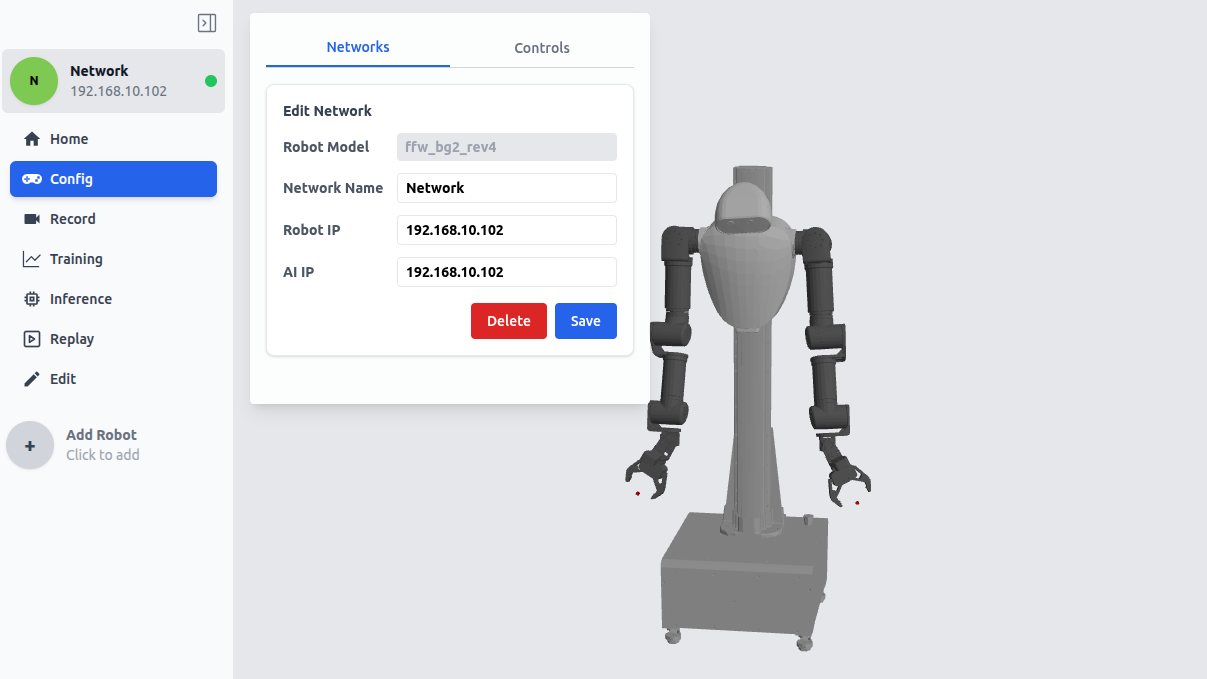
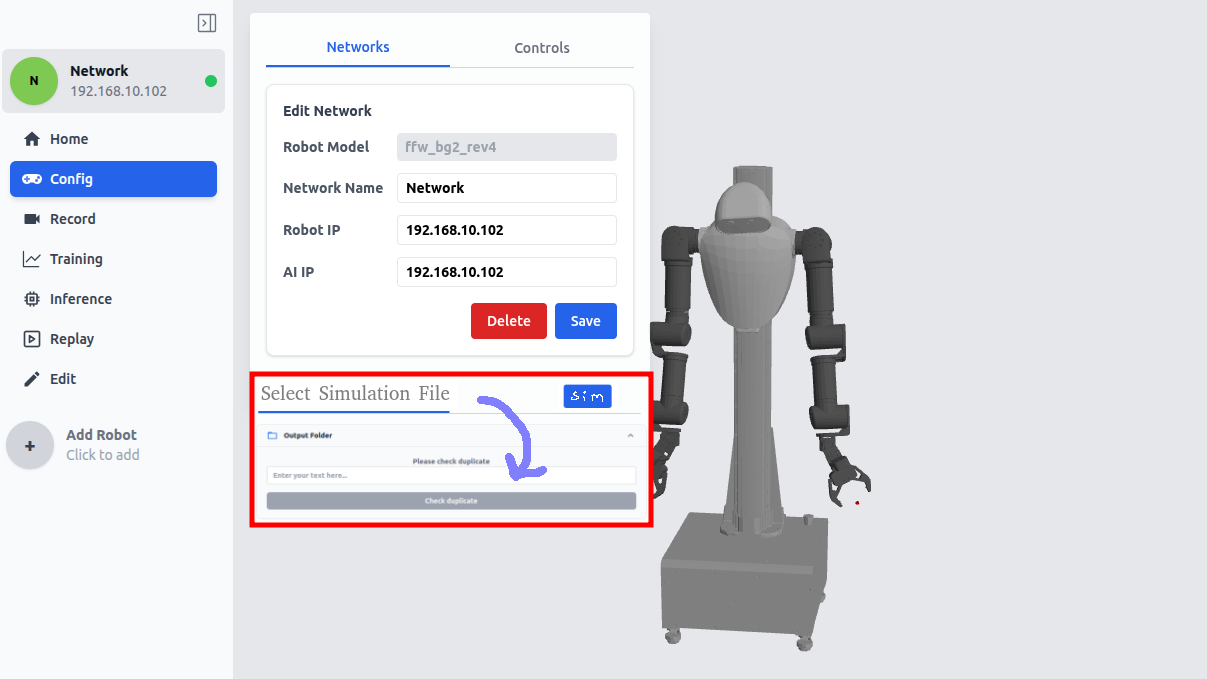
added steps to verify simu

Changed region(s): [[0.1839, 0.5258, 0.5518, 0.8041]]

diff --git a/extras/design_simulation_hc.md b/extras/design_simulation_hc.md
@@ -1,15 +1,28 @@
+### Steps for simulation
+The following steps are suggested for the simulation of the model inference
 
+- Step 1. Collect data `A: <user>_<task>_<trial>.<format>`, maybe using parquet or h5py  
+- Step 2. Use data `A` for training a model `M`  
+- Step 3. Use any subset from `A` for testing model `M` and save the inference into `B`  
+    - The output from `M` should be something like `(Ts, Ac, DoF)` were      
+    - **Ts**: timesteps recorded at fixed FPS from camera   
+    - **Ac**: Action Chunk size from VLA model (eg. 16)  
+    - **DoF**: Robot degree of freedom (16-19-59) for RB-Y1 or AIW with 2G or 5G  
+    - *Note: if onely one action is predicted then `Ac=1`*  
+- Step 4. Use inference data from `B` to simulate the robot `R`
+    - It would be convenient to save the data such as `<model>_<task>_<robot>.<format>`
+    - If the format to save is decided beforehand also is helpful (eg., .npy, .paquet, .pickle)
 
-General screen for choose simulation
+### Image reference for HC
+
+Fpr steps 1 to 3 can be done in the following screen add this functionality from Edge-Team
+
+![alt text](image-2.png)
+
+Then to enable simulation select option in the general screen
 
 ![alt text](image.png)
 
-Config page for the web-based simulation
+Finally select the file of inference data that you want to see in simulation and play the button
 
 ![alt text](image-1.png)
-
-Proposal 1:
-
-Create a file based on the data for training
-
-![alt text](image-2.png)
